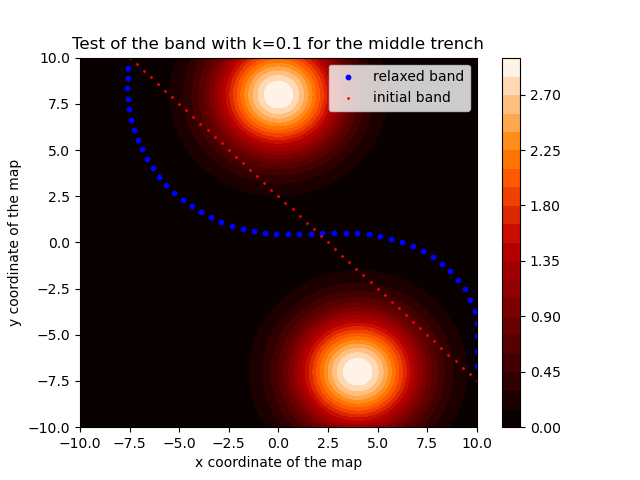
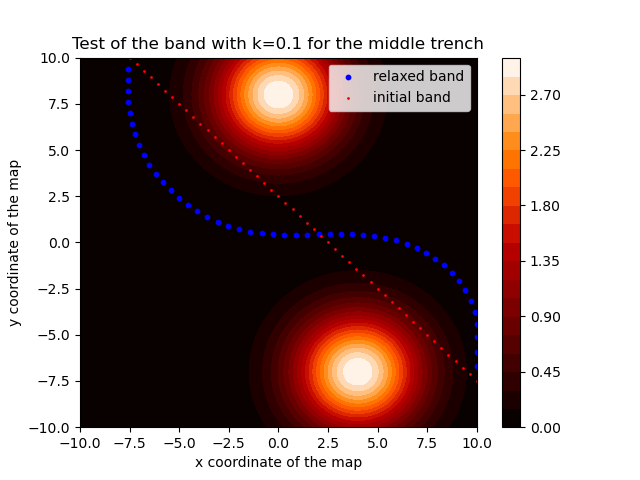
HEUREKA

diff --git a/el_band.py b/el_band.py
@@ -99,17 +99,17 @@ def Energy(band,init,final,x_ext,y_ext,Z,N=1000,k=1):
             idx_y.append(comp_y[-1][0])
     
     #print(idx_x,idx_y)
-    #poten = 0
-    #for i in range(np.size(idx_x)):
-        #poten += Z[idx_x[i],idx_y[i]]
+    poten = 0
+    for i in range(np.size(idx_x)):
+        poten += Z[idx_y[i],idx_x[i]]
     #    poten += -1*np.exp(-0.01*(X)**2)-1*np.exp(-0.01*(Y-offs)**2)
 
     #X = [band[i][0] for i in range(len(band))]
     #Y = [band[i][1] for i in range(len(band))]
     results = []
-    poten   = []
+    #poten   = []
     for idpoint in range(len(X)):
-        poten.append(height(X[idpoint],Y[idpoint]))
+        #poten.append(height(X[idpoint],Y[idpoint]))
         if idpoint == 0:
             results.append(k*((X[0]-X[1])**2+(Y[0]-Y[1])**2))
         elif idpoint == len(X)-1:
@@ -118,7 +118,7 @@ def Energy(band,init,final,x_ext,y_ext,Z,N=1000,k=1):
             results.append(k * ((X[idpoint-1]-X[idpoint])**2+(X[idpoint+1]-X[idpoint])**2 + \
                         (Y[idpoint-1]-Y[idpoint])**2 + (Y[idpoint+1]-Y[idpoint])**2))
     #print(np.sum(results),poten)
-    return np.sum(poten) + np.sum(results)
+    return poten + np.sum(results)
     
 def height(X,Y):
     return +3*np.exp(-0.1*((X-4)**2+(Y+7)**2))+3*np.exp(-0.1*((X)**2+(Y-8)**2))
@@ -128,7 +128,7 @@ N=5000
 offs = -3*10/4
 #giving the length of the band N and the initial/final endpoint coordinates p
 N_band  = 50
-p_init  = (10,offs)
+p_init  = (7.5,-10)
 p_final = (offs,10)
 k=1e-1
 #Creating a linear interpolation between the two points as a first guess
@@ -147,7 +147,7 @@ x,y,Z = mapCreation(offs,N=N)
 spacing = (max(x)-min(x))/N
 bound = [(-10+spacing,10-spacing) for _ in range((N_band-2)*2)]
 
-res = opt.minimize(Energy,band_list[1:-1],args=(band_list[0],band_list[-1],x,y,Z,N,k),bounds=bound,options={'disp':True})
+res = opt.minimize(Energy,band_list[1:-1],args=(band_list[0],band_list[-1],x,y,Z,N,k),bounds=bound,options={'disp':True,'eps':spacing*1.05})
 
 #%%
 new_x = np.array(res.x[::2])
@@ -165,5 +165,5 @@ ax.set_xlabel('x coordinate of the map')
 ax.set_ylabel('y coordinate of the map')
 ax.legend()
 ax.set_title(f'Test of the band with k={k} for the middle trench')
-fig.savefig(f'El_band_k_{k}_mid_trench_new_endpoints2.png')
+fig.savefig(f'El_band_k_{k}_mid_trench_new_endpoints2_numerical.png')
 fig.show()
